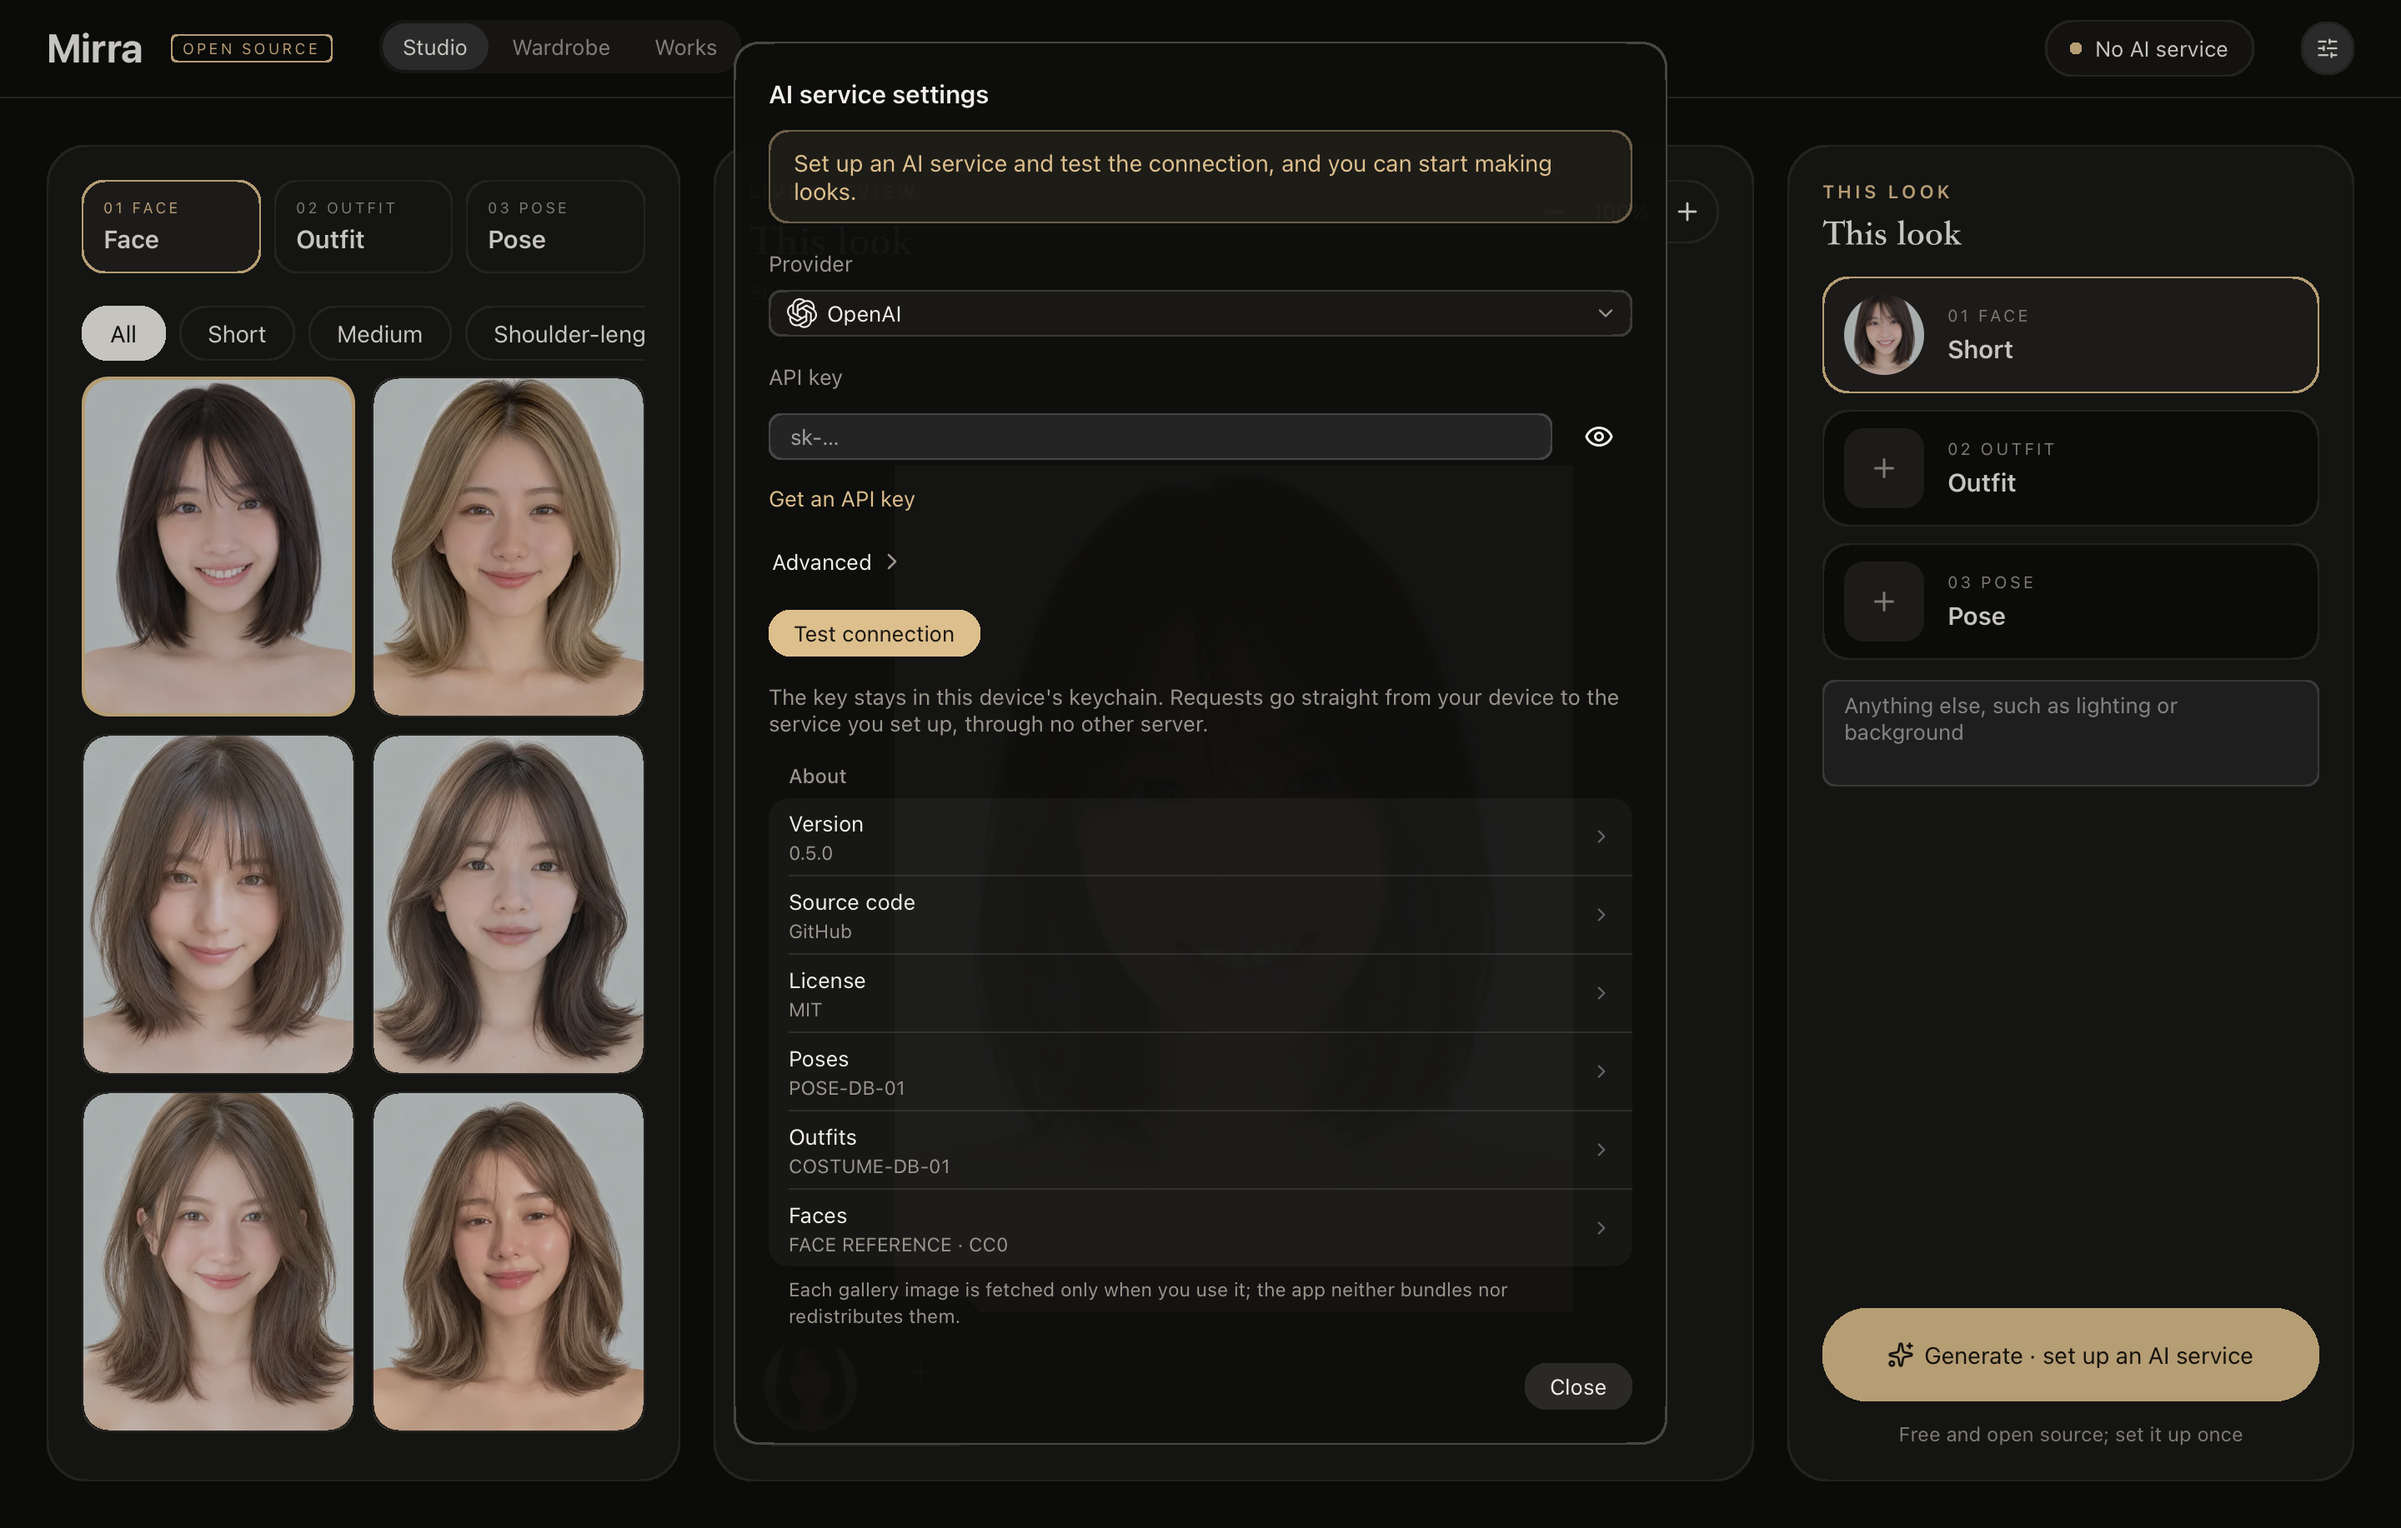
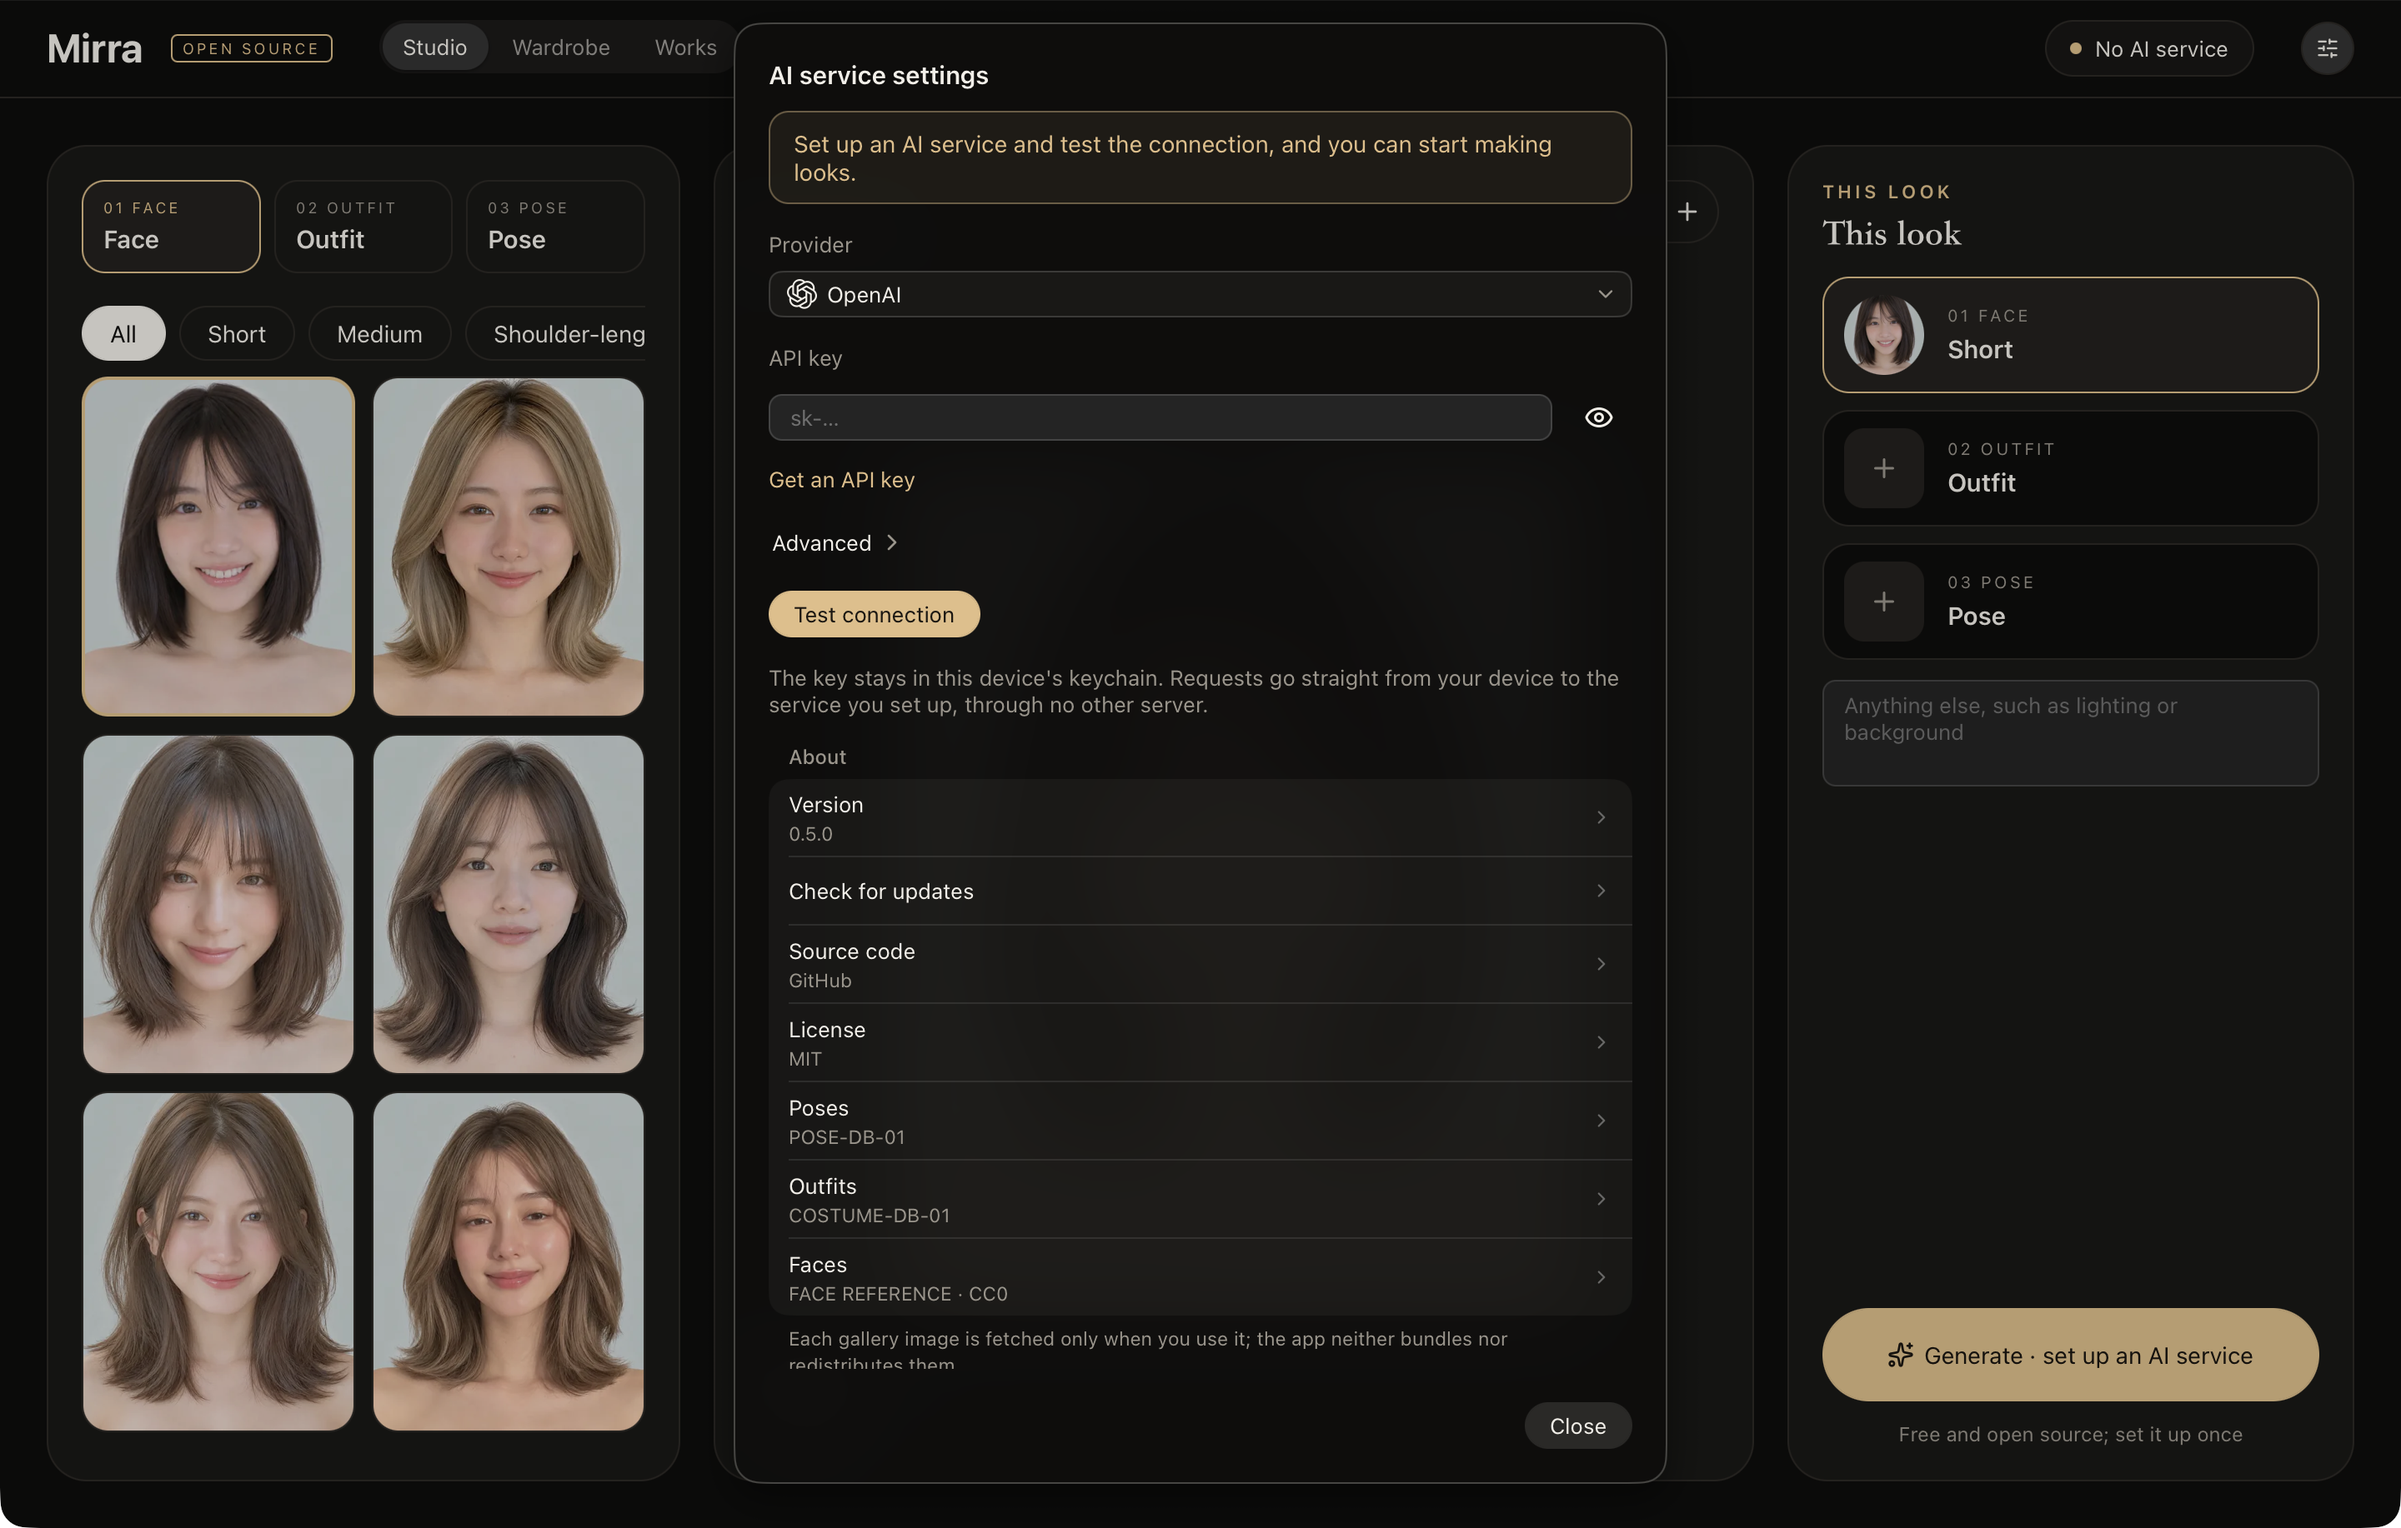
feat(updates): update the app from the latest release
nsgo.yaml configures updates with the public key, and a release build signs every installer with the secret key in NSGO_UPDATES_KEY and uploads each desktop and Android target's appcast, failing without the key, as installed copies could not update to the release. Sparkle on macOS and WinSparkle on Windows check daily and Android as it starts; About gains Check for updates where the app updates itself, which is not the web or iOS.

diff --git a/apps/mirra/pages.go b/apps/mirra/pages.go
@@ -10,6 +10,7 @@ import (
 	"github.com/nsgo-dev/nsgo/core"
 	"github.com/nsgo-dev/nsgo/icons/lucide"
 	"github.com/nsgo-dev/nsgo/ui"
+	"github.com/nsgo-dev/nsgo/updater"
 	"github.com/yldm-ai/mirra/apps/mirra/locales"
 )
 
@@ -493,14 +494,30 @@ func (s *studio) aboutLinks(cx *core.Scope) core.Node {
 	if version == "" {
 		version = t.VersionDevelopment()
 	}
-	return ui.FormSection{Title: t.AboutSection(), Children: []core.Node{
-		ui.FormRow{Title: t.Version(), Detail: version, OnPress: open(repoURL + "/releases"), TestID: "version"},
+	rows := []core.Node{ui.FormRow{Title: t.Version(), Detail: version, OnPress: open(repoURL + "/releases"), TestID: "version"}}
+	if updatable(cx.Env()) {
+		// updater shows what it finds: Sparkle's or WinSparkle's window on the desktop, an alert that installs the signed APK on Android.
+		rows = append(rows, ui.FormRow{Title: t.CheckForUpdates(), OnPress: func() { updater.Check(cx) }, TestID: "check-updates"})
+	}
+	return ui.FormSection{Title: t.AboutSection(), Children: append(rows,
 		ui.FormRow{Title: t.SourceCode(), Detail: "GitHub", OnPress: open(repoURL)},
 		ui.FormRow{Title: t.License(), Detail: "MIT", OnPress: open(repoURL + "/blob/main/LICENSE")},
 		ui.FormRow{Title: t.SourcesPose(), Detail: "POSE-DB-01", OnPress: open(DefaultSites.Pose)},
 		ui.FormRow{Title: t.SourcesOutfit(), Detail: "COSTUME-DB-01", OnPress: open(DefaultSites.Costume)},
 		ui.FormRow{Title: t.SourcesFace(), Detail: "FACE REFERENCE · CC0", OnPress: open(DefaultSites.Face)},
-	}, Footer: t.SourcesFooter()}
+	), Footer: t.SourcesFooter()}
+}
+
+// updatable says whether the app updates itself where it runs: the desktop and Android copies from the latest release. The web build is always the latest, and the iOS app, which is built from source, is in no store to ask.
+func updatable(env *core.Env) bool {
+	if env.Simulated() {
+		return false
+	}
+	switch env.OS() {
+	case core.OSMacOS, core.OSWindows, core.OSLinux, core.OSAndroid:
+		return true
+	}
+	return false
 }
 
 // card is a rounded panel on the page.

diff --git a/apps/mirra/locales/catalog_gen.go b/apps/mirra/locales/catalog_gen.go
@@ -224,6 +224,7 @@ const (
 	textResetDefaults
 	textVersion
 	textVersionDevelopment
+	textCheckForUpdates
 	textBaseURL
 	textApiKey
 	textApiKeyOptional
@@ -374,6 +375,7 @@ var keyOfText = [numTexts]string{
 	"resetDefaults",
 	"version",
 	"versionDevelopment",
+	"checkForUpdates",
 	"baseURL",
 	"apiKey",
 	"apiKeyOptional",
@@ -522,6 +524,7 @@ var textsEn = i18n.NewTexts(""+
 	"Reset to defaults"+
 	"Version"+
 	"Development build"+
+	"Check for updates"+
 	"Address"+
 	"API key"+
 	"API key (optional)"+
@@ -666,6 +669,7 @@ var textsEn = i18n.NewTexts(""+
 		9,
 		17,
 		7,
+		17,
 		17,
 		7,
 		7,
@@ -815,6 +819,7 @@ var textsZhHans = i18n.NewTexts(""+
 	"恢复默认"+
 	"版本"+
 	"开发版"+
+	"检查更新"+
 	"接口地址"+
 	"API Key"+
 	"API Key（可留空）"+
@@ -960,6 +965,7 @@ var textsZhHans = i18n.NewTexts(""+
 		12,
 		6,
 		9,
+		12,
 		12,
 		7,
 		22,
@@ -2397,6 +2403,13 @@ func VersionDevelopment(cx *core.Scope) string { return For(cx).VersionDevelopme
 
 // VersionDevelopment is the package's VersionDevelopment in the language of msgs.
 func (msgs Messages) VersionDevelopment() string { return msgs.text(textVersionDevelopment) }
+
+// CheckForUpdates says "Check for updates"
+// in the language the app shows under cx.
+func CheckForUpdates(cx *core.Scope) string { return For(cx).CheckForUpdates() }
+
+// CheckForUpdates is the package's CheckForUpdates in the language of msgs.
+func (msgs Messages) CheckForUpdates() string { return msgs.text(textCheckForUpdates) }
 
 // BaseURL says "Address"
 // in the language the app shows under cx.

diff --git a/apps/mirra/app_test.go b/apps/mirra/app_test.go
@@ -283,6 +283,25 @@ func TestAdvancedSettings(t *testing.T) {
 	}
 }
 
+// TestCheckForUpdatesWhereTheAppUpdates offers the check on the platforms whose copies update themselves from the releases, and not on the web or iOS.
+func TestCheckForUpdatesWhereTheAppUpdates(t *testing.T) {
+	for _, c := range []struct {
+		os   core.OS
+		want bool
+	}{{core.OSMacOS, true}, {core.OSWindows, true}, {core.OSAndroid, true}, {core.OSWeb, false}, {core.OSIOS, false}} {
+		// A target runs on its own OS, which an Environment does not change.
+		if nsgotest.Target() != "" && c.os != core.OSMacOS {
+			continue
+		}
+		app := nsgotest.Start(t, App{DataDir: t.TempDir()}.Root, nsgotest.Environment(core.Environment{Locale: "en", OS: c.os}), nsgotest.Size(1440, 1000))
+		app.Press("id:open-settings")
+		app.WaitFor("id:version", wait)
+		if got := app.Exists("id:check-updates"); got != c.want {
+			t.Errorf("on %v the check is offered: %v, want %v", c.os, got, c.want)
+		}
+	}
+}
+
 func TestConnectionTestReportsFailure(t *testing.T) {
 	app, _ := start(t, &fakeAPI{}, "bad")
 	app.Press("text:Me")

diff --git a/README.md b/README.md
@@ -120,9 +120,9 @@ The connection test asks the provider for its models; Volcengine Ark and Model S
 
 | Platform | State |
 | --- | --- |
-| macOS | Runs; tested in a real window. Releases carry a disk image signed with a Developer ID and notarized |
-| Windows | Releases carry an installer signed with a code signing certificate; not yet run on a device |
-| Android | `nsgo build` makes an APK; releases carry it once its signing key is set up. Not yet run on a device |
+| macOS | Runs; tested in a real window. Releases carry a disk image signed with a Developer ID and notarized; the app updates itself through Sparkle |
+| Windows | Releases carry an installer signed with a code signing certificate, and the app updates itself through WinSparkle; not yet run on a device |
+| Android | Releases carry an APK signed with the release key, and the app offers each newer one as it starts; not yet run on a device |
 | iOS | Build from source (`go tool nsgo dev -target ios_simulator`); not yet run on a device |
 | Linux | Not in the build targets yet; NSGo supports it, untested here |
 | Web | Runs at [yldm-ai.github.io/mirra/app/](https://yldm-ai.github.io/mirra/app/), built with the website. A browser has no secure store or file system for the app, so the key, works and added clothes last as long as the page; export pictures to keep them |
@@ -165,7 +165,9 @@ Pushes to `main` that touch it, the app or the screenshots publish it to GitHub 
 
 ### Releases
 
-`.github/workflows/ci.yml` tests the app, vets every target, builds every package and the website on pull requests and on `main`. Once it passes on `main`, `.github/workflows/release.yml` releases what the Conventional Commits since the last tag call for: `feat` is a minor version, `fix` and `perf` a patch, and `docs`, `chore` and the `website` scope release nothing. It writes the version into `apps/mirra/nsgo.yaml`, makes `CHANGELOG.md`'s Unreleased section the version's section (or writes one from the commits when Unreleased is empty), commits and tags `vX.Y.Z`, builds the packages (`.github/workflows/package.yml`), publishes them with their checksums and provenance, and rebuilds the website, whose download cards link them. Run Release by hand from `main` to force a bump. The macOS package is signed and notarized and the Windows one signed with the organization's certificates; the Android APK ships once the `ANDROID_KEYSTORE`, `NSGO_KEYSTORE_PASSWORD` and `NSGO_KEY_PASSWORD` secrets hold its release key, since installed copies update only to an APK signed with the same key.
+`.github/workflows/ci.yml` tests the app, vets every target, builds every package and the website on pull requests and on `main`. Once it passes on `main`, `.github/workflows/release.yml` releases what the Conventional Commits since the last tag call for: `feat` is a minor version, `fix` and `perf` a patch, and `docs`, `chore` and the `website` scope release nothing. It writes the version into `apps/mirra/nsgo.yaml`, makes `CHANGELOG.md`'s Unreleased section the version's section (or writes one from the commits when Unreleased is empty), commits and tags `vX.Y.Z`, builds the packages (`.github/workflows/package.yml`), publishes them with their checksums and provenance, and rebuilds the website, whose download cards link them. Run Release by hand from `main` to force a bump. The macOS package is signed and notarized and the Windows one signed with the organization's certificates; the Android APK is signed with the release key in the `ANDROID_KEYSTORE`, `NSGO_KEYSTORE_PASSWORD` and `NSGO_KEY_PASSWORD` secrets, since installed copies update only to an APK signed with the same key.
+
+Installed copies update themselves from the latest release. A release build signs each installer with the secret key in the `NSGO_UPDATES_KEY` secret and uploads each desktop and Android target's `appcast-<target>.xml`; `apps/mirra/nsgo.yaml`'s `updates.key` is its public half, and a copy installs only what that key signed. On macOS Sparkle and on Windows WinSparkle check once a day, Android checks as the app starts, and **Check for updates** under About checks at once. Keep the secret key: without it no installed copy can update again. Versions up to 0.7.0 carry no updater and are reinstalled once.
 
 ## License
 

diff --git a/ARCHITECTURE.md b/ARCHITECTURE.md
@@ -30,7 +30,7 @@ Mirra is an NSGo app for macOS, iOS, Android and Windows that puts a face, an ou
 | `apps/website/src/components/` | The website's sections, from the hero to the FAQ. |
 | `apps/website/vite.config.ts` | The build: the site's address and Pages path, the pages it prerenders and the sitemap, and the version, stars, contributors and latest release's files it reads. |
 | `apps/website/src/i18n/head.ts` | Each page's title, description, canonical and alternate links, Open Graph and Twitter cards and structured data. |
-| `.github/workflows/ci.yml`, `package.yml`, `release.yml` | CI on pull requests and `main`; the packages of every platform; the release of `main` once CI passes, versioned from its Conventional Commits. |
+| `.github/workflows/ci.yml`, `package.yml`, `release.yml` | CI on pull requests and `main`; the packages of every platform, with a release's signed appcasts; the release of `main` once CI passes, versioned from its Conventional Commits. |
 | `.github/scripts/` | The release's version (`next-version.sh`, `set-version.sh`), its notes from `CHANGELOG.md` (`changelog.sh`) and their test. |
 | `apps/website/src/routes/og.$lang.tsx`, `apps/website/scripts/og.sh` | The 1200x630 card each language's Open Graph image is taken from, served by the dev server only, and the script that takes them into `public/`. |
 
@@ -51,6 +51,8 @@ Mirra is an NSGo app for macOS, iOS, Android and Windows that puts a face, an ou
 **Generate.** Without a configured service, Generate opens the settings. Otherwise it downloads the chosen full images, sends them with the prompt to the chosen provider's API and writes the picture to the results folder, where it waits. Generate again and the outfit swap make the same request again, the swap with another outfit. Cancel stops the request through its context.
 
 **Save.** Saving moves the picture into the works folder under the next number and writes its sidecar; starring an unsaved picture saves it first. Opening a work brings back its look.
+
+**Updates.** The desktop and Android copies update themselves from the latest release's `appcast-<target>.xml`, signed with the key whose public half is `nsgo.yaml`'s `updates.key`: Sparkle and WinSparkle on their daily schedule, Android as it starts, and About's Check for updates through `updater.Check`. The web build is always the latest and the iOS app is built from source, so neither offers the check.
 
 **Service.** The service is one of the preset providers, each with its own key, address, model and size; a server the user runs may take no key. The connection test asks the provider's models, or sends Ark and Model Studio an empty request; changing the provider or any of its settings marks the service untested again.
 

diff --git a/CHANGELOG.md b/CHANGELOG.md
@@ -2,6 +2,8 @@
 
 ## Unreleased
 
+- The app updates itself from the latest release: Sparkle on macOS and WinSparkle on Windows check daily, Android as it starts, and About has Check for updates. Releases carry the signed appcasts the installed copies read; copies of 0.7.0 and older are reinstalled once.
+
 ## 0.7.0 - 2026-11-20
 
 ### Features
